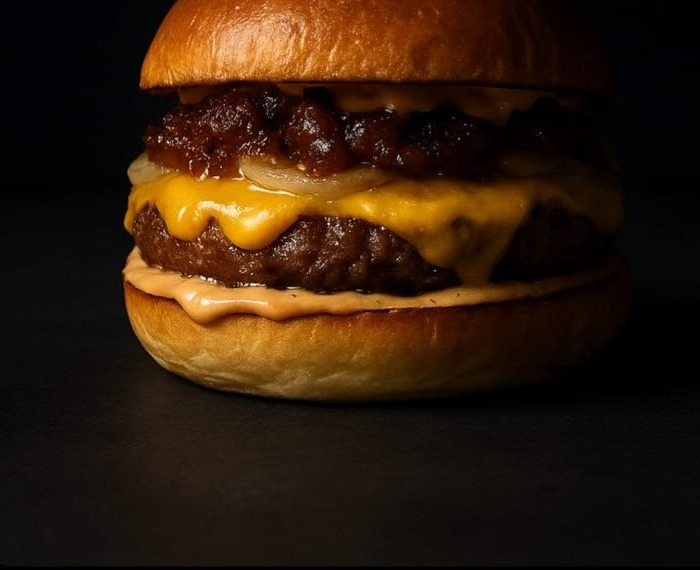
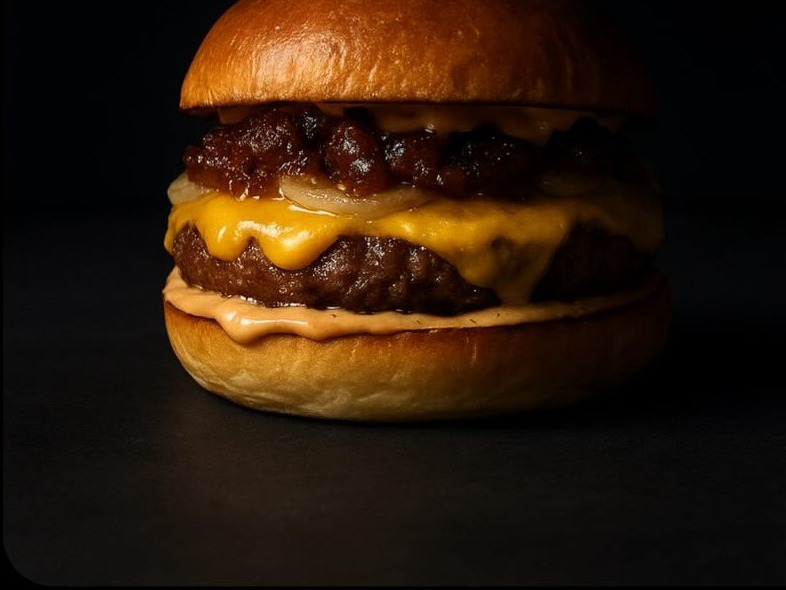
Ziripot QA mobile: burgers re-recortados + badge Sobre nosotros mejor posicionada

diff --git a/hamburgueseria-ziripot-berria-galdakao/index.html b/hamburgueseria-ziripot-berria-galdakao/index.html
@@ -387,20 +387,26 @@
     }
     .about-visual {
       position: relative; overflow: hidden; min-height: 700px;
-      background: url('https://images.unsplash.com/photo-1550547660-d9450f859349?w=1920&q=85') center/cover no-repeat;
+      background: url('https://images.unsplash.com/photo-1550547660-d9450f859349?w=1920&q=85') 70% center/cover no-repeat;
+    }
+    .about-visual::after {
+      content: ''; position: absolute; inset: 0;
+      background: linear-gradient(135deg, rgba(8,8,8,0.75) 0%, rgba(8,8,8,0.45) 22%, rgba(8,8,8,0.05) 45%, transparent 65%);
+      pointer-events: none;
     }
     .about-badge {
-      position: absolute; bottom: 48px; left: 48px;
-      background: var(--black); border: 1px solid rgba(180,83,9,0.25);
-      padding: 24px 30px; max-width: 240px;
+      position: absolute; top: 56px; left: 28px; z-index: 2;
+      background: rgba(8,8,8,0.78); border: 1px solid rgba(180,83,9,0.35);
+      backdrop-filter: blur(8px);
+      padding: 14px 20px; max-width: 200px;
     }
     .about-badge-year {
-      font-family: var(--font-serif); font-size: 3rem;
+      font-family: var(--font-serif); font-size: 2.4rem;
       color: var(--accent); line-height: 1;
     }
     .about-badge-text {
-      font-size: 0.72rem; letter-spacing: 0.1em;
-      color: rgba(245,243,239,0.5); margin-top: 6px;
+      font-size: 0.68rem; letter-spacing: 0.08em;
+      color: rgba(245,243,239,0.7); margin-top: 6px; line-height: 1.4;
     }
     .about-content {
       padding: 100px 80px; display: flex; flex-direction: column; justify-content: center;
